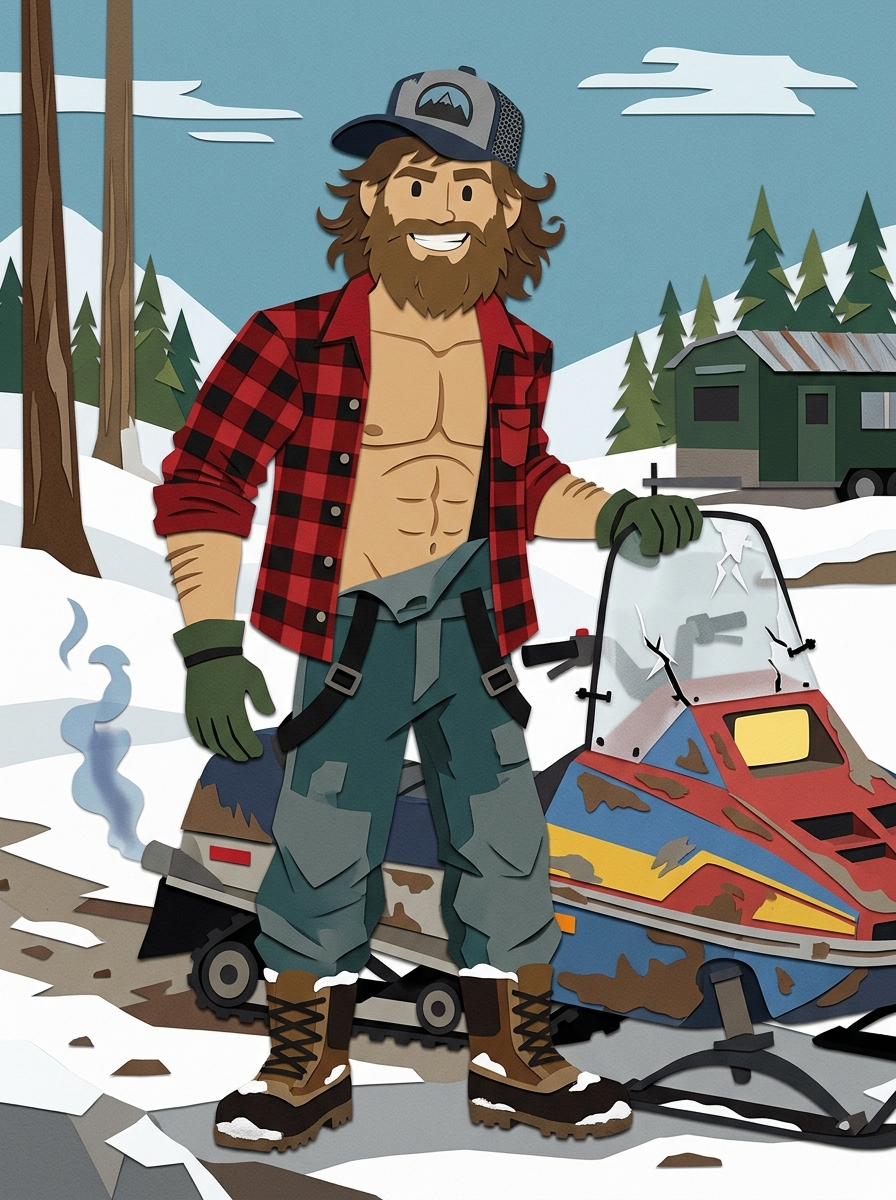
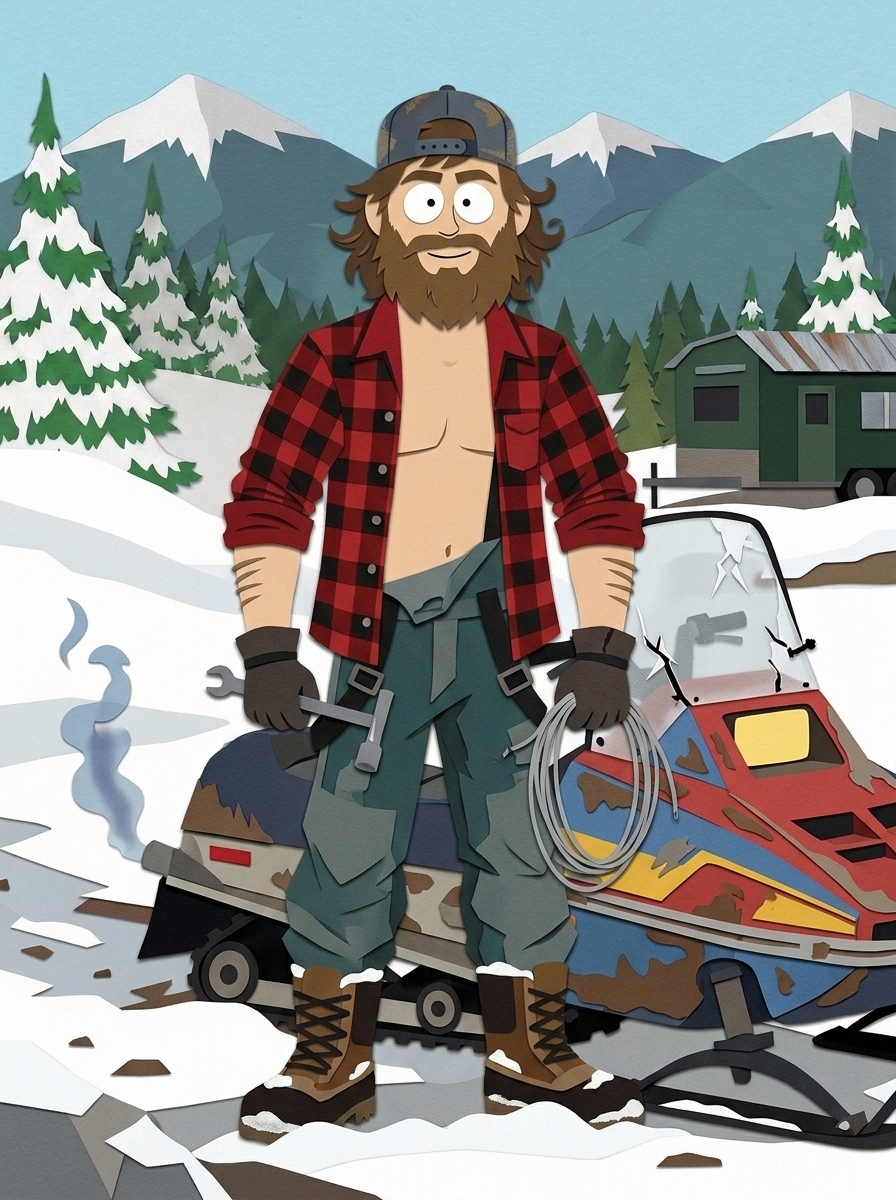
Publish Hillbilly v4 authoritative model sheet with baling wire and wrench

diff --git a/index.html b/index.html
@@ -119,7 +119,7 @@ footer{padding-block:48px 56px;color:var(--muted);font-size:14px}
     <figure class="snap"><div class="ph todo"><span>Trail Boss<br>Black &amp; Pink Kit<br>In Progress</span></div>
       <h3>Trail Boss</h3><div class="role">Trauma nurse &amp; mountain marshal</div>
       <p>High-stakes ER trauma nurse, backcountry mountain marshal, and loving voice of reason. Playfully ribs the boys with a warm smile, but stands ready with trauma shears the second bravado meets gravity.</p><span class="sled">Polaris 9R · black &amp; pink</span></figure>
-    <figure class="snap"><div class="ph todo"><span>Hillbilly<br>Model Sheet<br>Updating</span></div>
+    <figure class="snap"><div class="ph"><img src="hillbilly.jpg" alt="Hillbilly in an open buffalo plaid flannel, backwards cap, wrench and baling wire" loading="lazy"></div>
       <h3>Hillbilly</h3><div class="role">Two-stroke hustler</div>
       <p>Twenty-one, ruggedly athletic, and permanently broke. Keeps a smoky 1989 barn-find two-stroke alive on ether, prayers, and baling wire while perpetually sweating trailer lot rent with his cousin Woody.</p><span class="sled">1989 barn-find clunker</span></figure>
     <figure class="snap"><div class="ph"><img src="woody.jpg" alt="Woody in a vintage Ford ballcap, buffalo plaid, and full logger beard" loading="lazy"></div>
